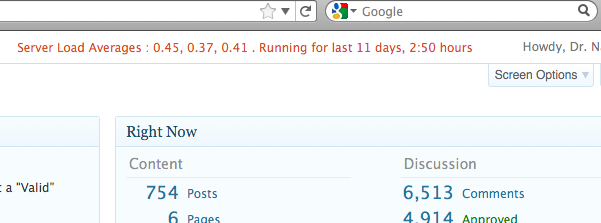
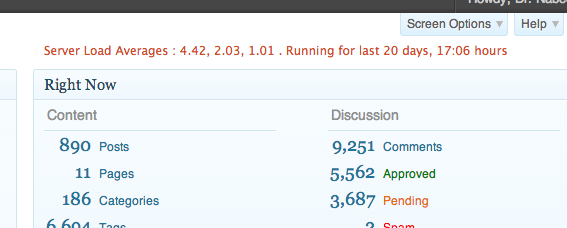
update 1.2 - 3.7.1 compatibility
git-svn-id: https://plugins.svn.wordpress.org/wp-server/trunk@807328 b8457f37-d9ea-0310-8a92-e5e31aec5664

diff --git a/wp-server.php b/wp-server.php
@@ -3,7 +3,7 @@
 Plugin Name: WP Server
 Plugin URI: http://nabtron.com/wp-server-plugin/6950/
 Description: Show average server load and uptime of your linux server on top in admin panel 
-Version: 1.1
+Version: 1.2
 Author: Nabeel Khan
 Author URI: http://nabtron.com
 */
@@ -11,7 +11,7 @@ Author URI: http://nabtron.com
 <?php
 add_action('admin_head', 'wp_server_status_css');
 function wp_server_status_css() {
-	echo "<style type='text/css'>#wp_server_status {position: absolute;top: 50px;margin: 0;padding: 0;right: 200px;font-size: 12px;color: #d54e21;}</style>";
+	echo "<style type='text/css'>#wp_server_status {position: absolute;top: 30px;margin: 0;padding: 0;right: 80px;font-size: 12px;color: #d54e21;font-family: lucida grande;}</style>";
 }
 
 add_action('admin_footer', 'wp_server_status' );
